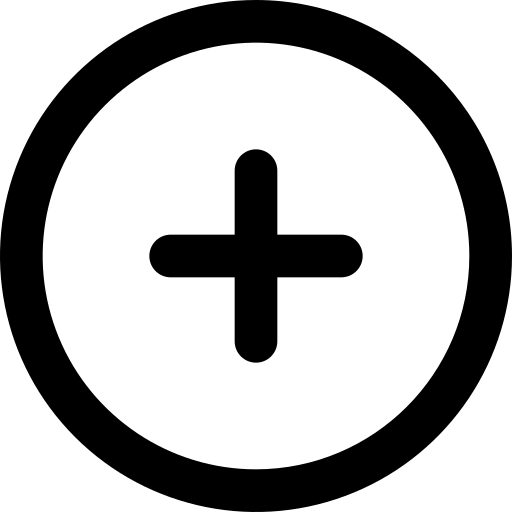
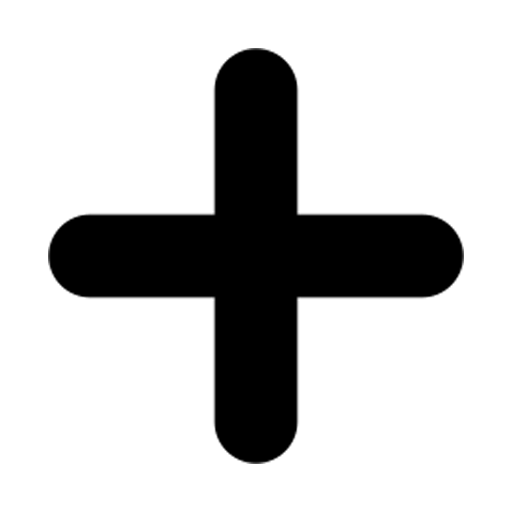
add

diff --git a/public/style.css b/public/style.css
@@ -72,26 +72,39 @@ button{
   margin-right: auto }
 
 .account:hover{
-  box-shadow: 0 0 0px 1px rgb(255, 255, 255, 0.24);
+  box-shadow: 0 0 0px 1px rgb(255, 255, 255, 0.1);
   transition: 70ms;
-}
-.icon:hover{
-  filter: invert(0.9);
 }
 .icon:active{
   filter: invert(0.8);
-  background-size: 49px 49px;
 }
-div .create{
+.account:active{
+  box-shadow: 0 0 0px 2px rgb(255, 255, 255, 0.1);
+  transition: 30ms;
+}
+.create{
   border-radius: 20px;
   background: rgba(255, 255, 255, 0.1);
   backdrop-filter: blur( 3px );
   -webkit-backdrop-filter: blur( 3px );
   position: absolute;
   justify-content: center;
+  background-position: center;
   width: 70px;
   height: 70px;
   z-index: 4;
+}
+.add{
+  width: 64px;
+  height: 64px;
+  background-image: url("plus.png");
+  filter: invert(1);
+  background-size: cover;
+  background-repeat: no-repeat;
+  position: absolute;
+  background-position: center;
+  top: 3px;
+  left: 3px;
 }
 /*.create .plus{ шлеб
   margin: 0 auto;

diff --git a/app.js b/app.js
@@ -50,7 +50,7 @@ setTimeout(() => {
   index += `
       <div class="context-menu">
           <div class="create">
-            <div class="plus"></div>
+            <div class="add"></div>
           </div>
           <div class="account">
             <div class="icon"></div>
